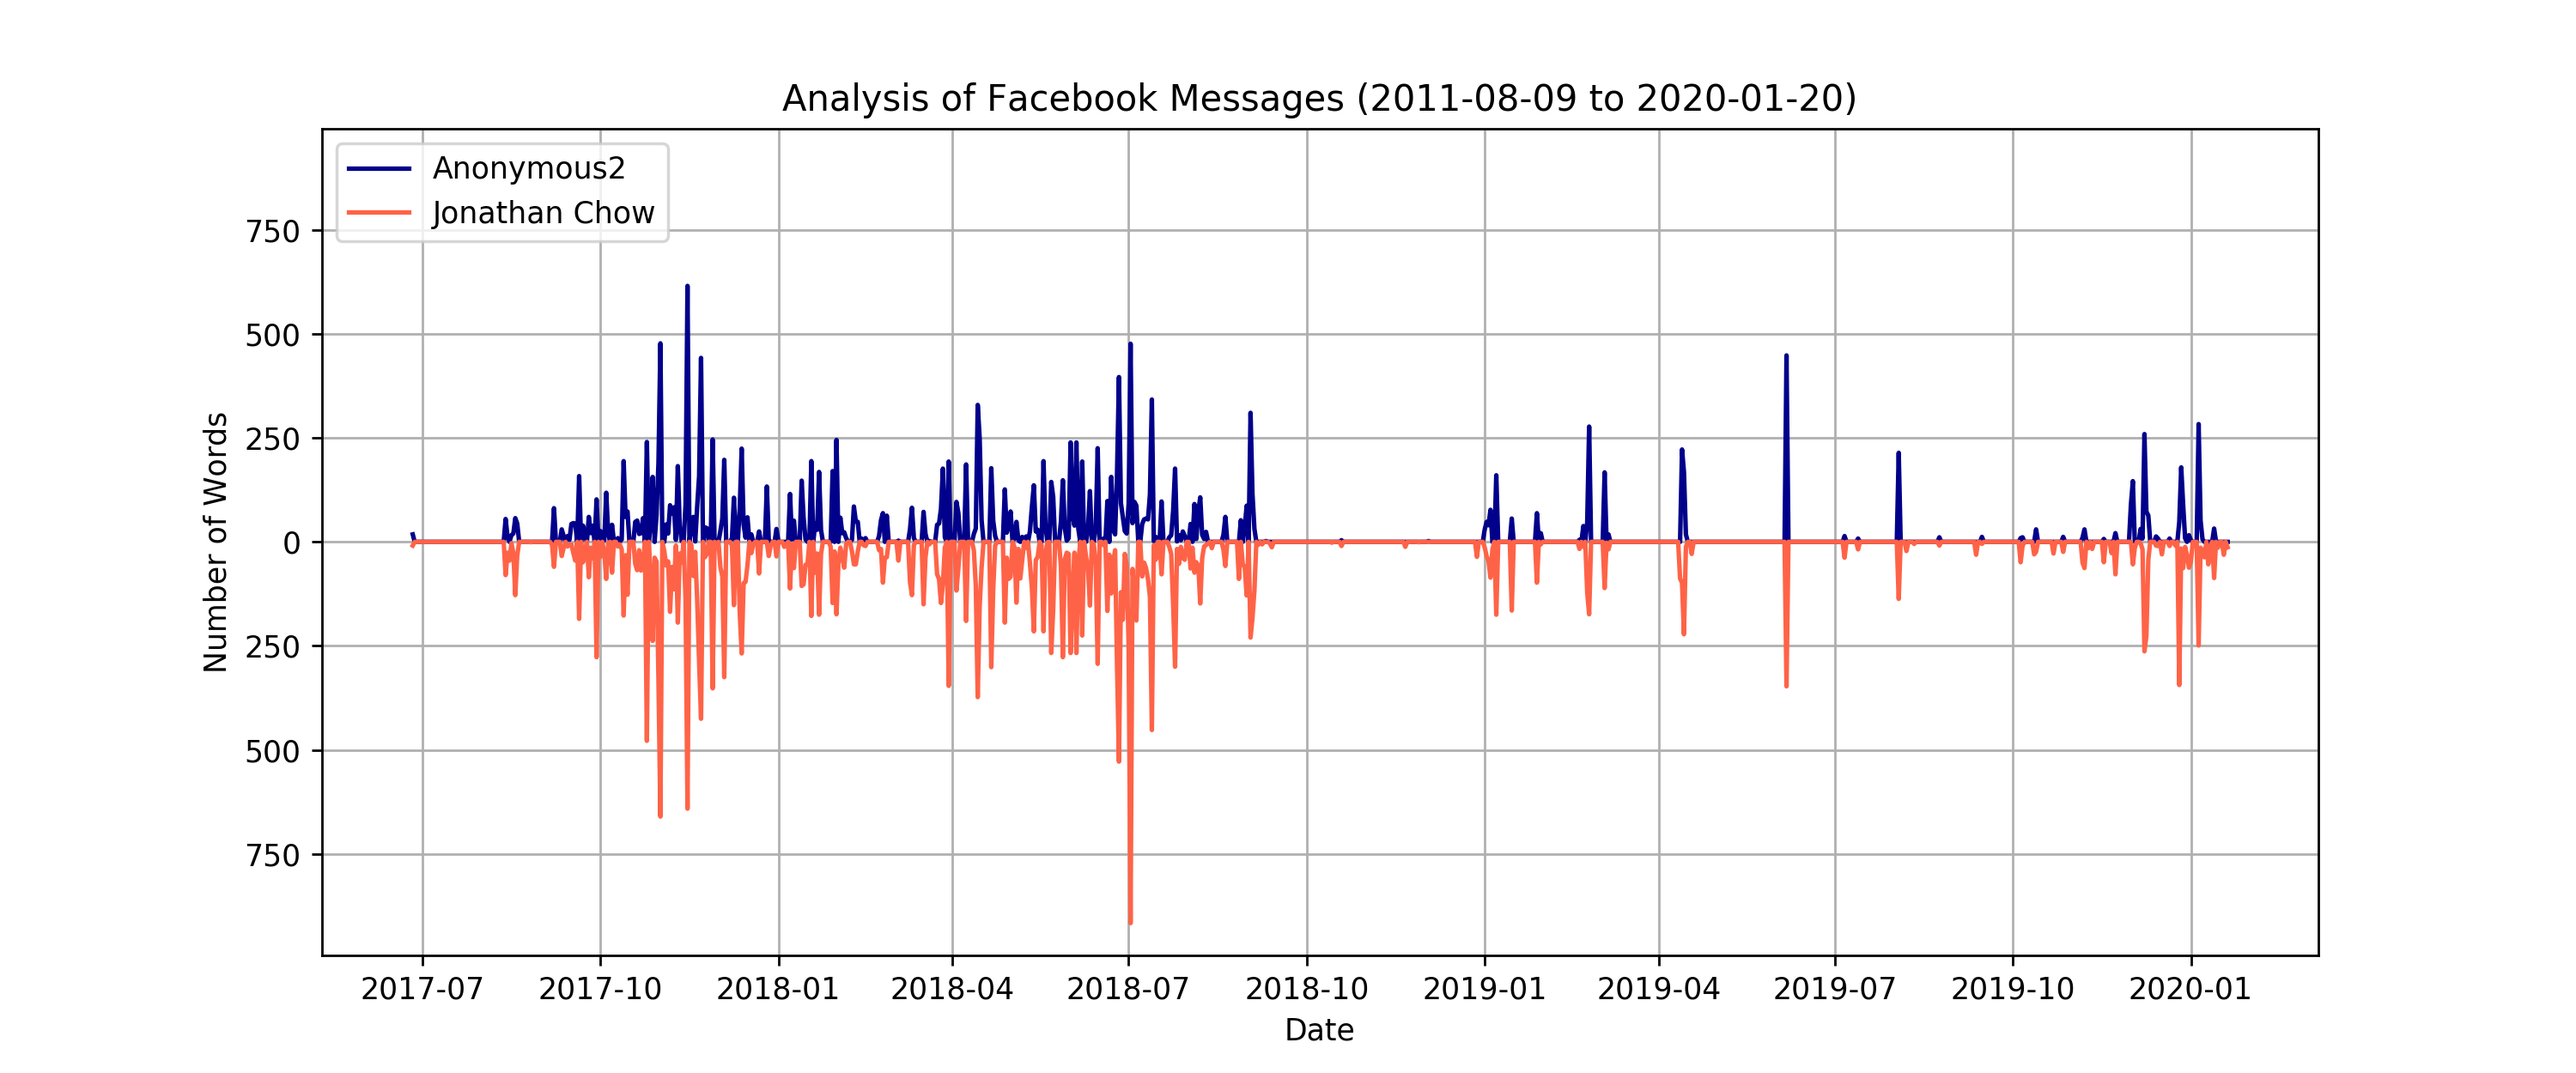
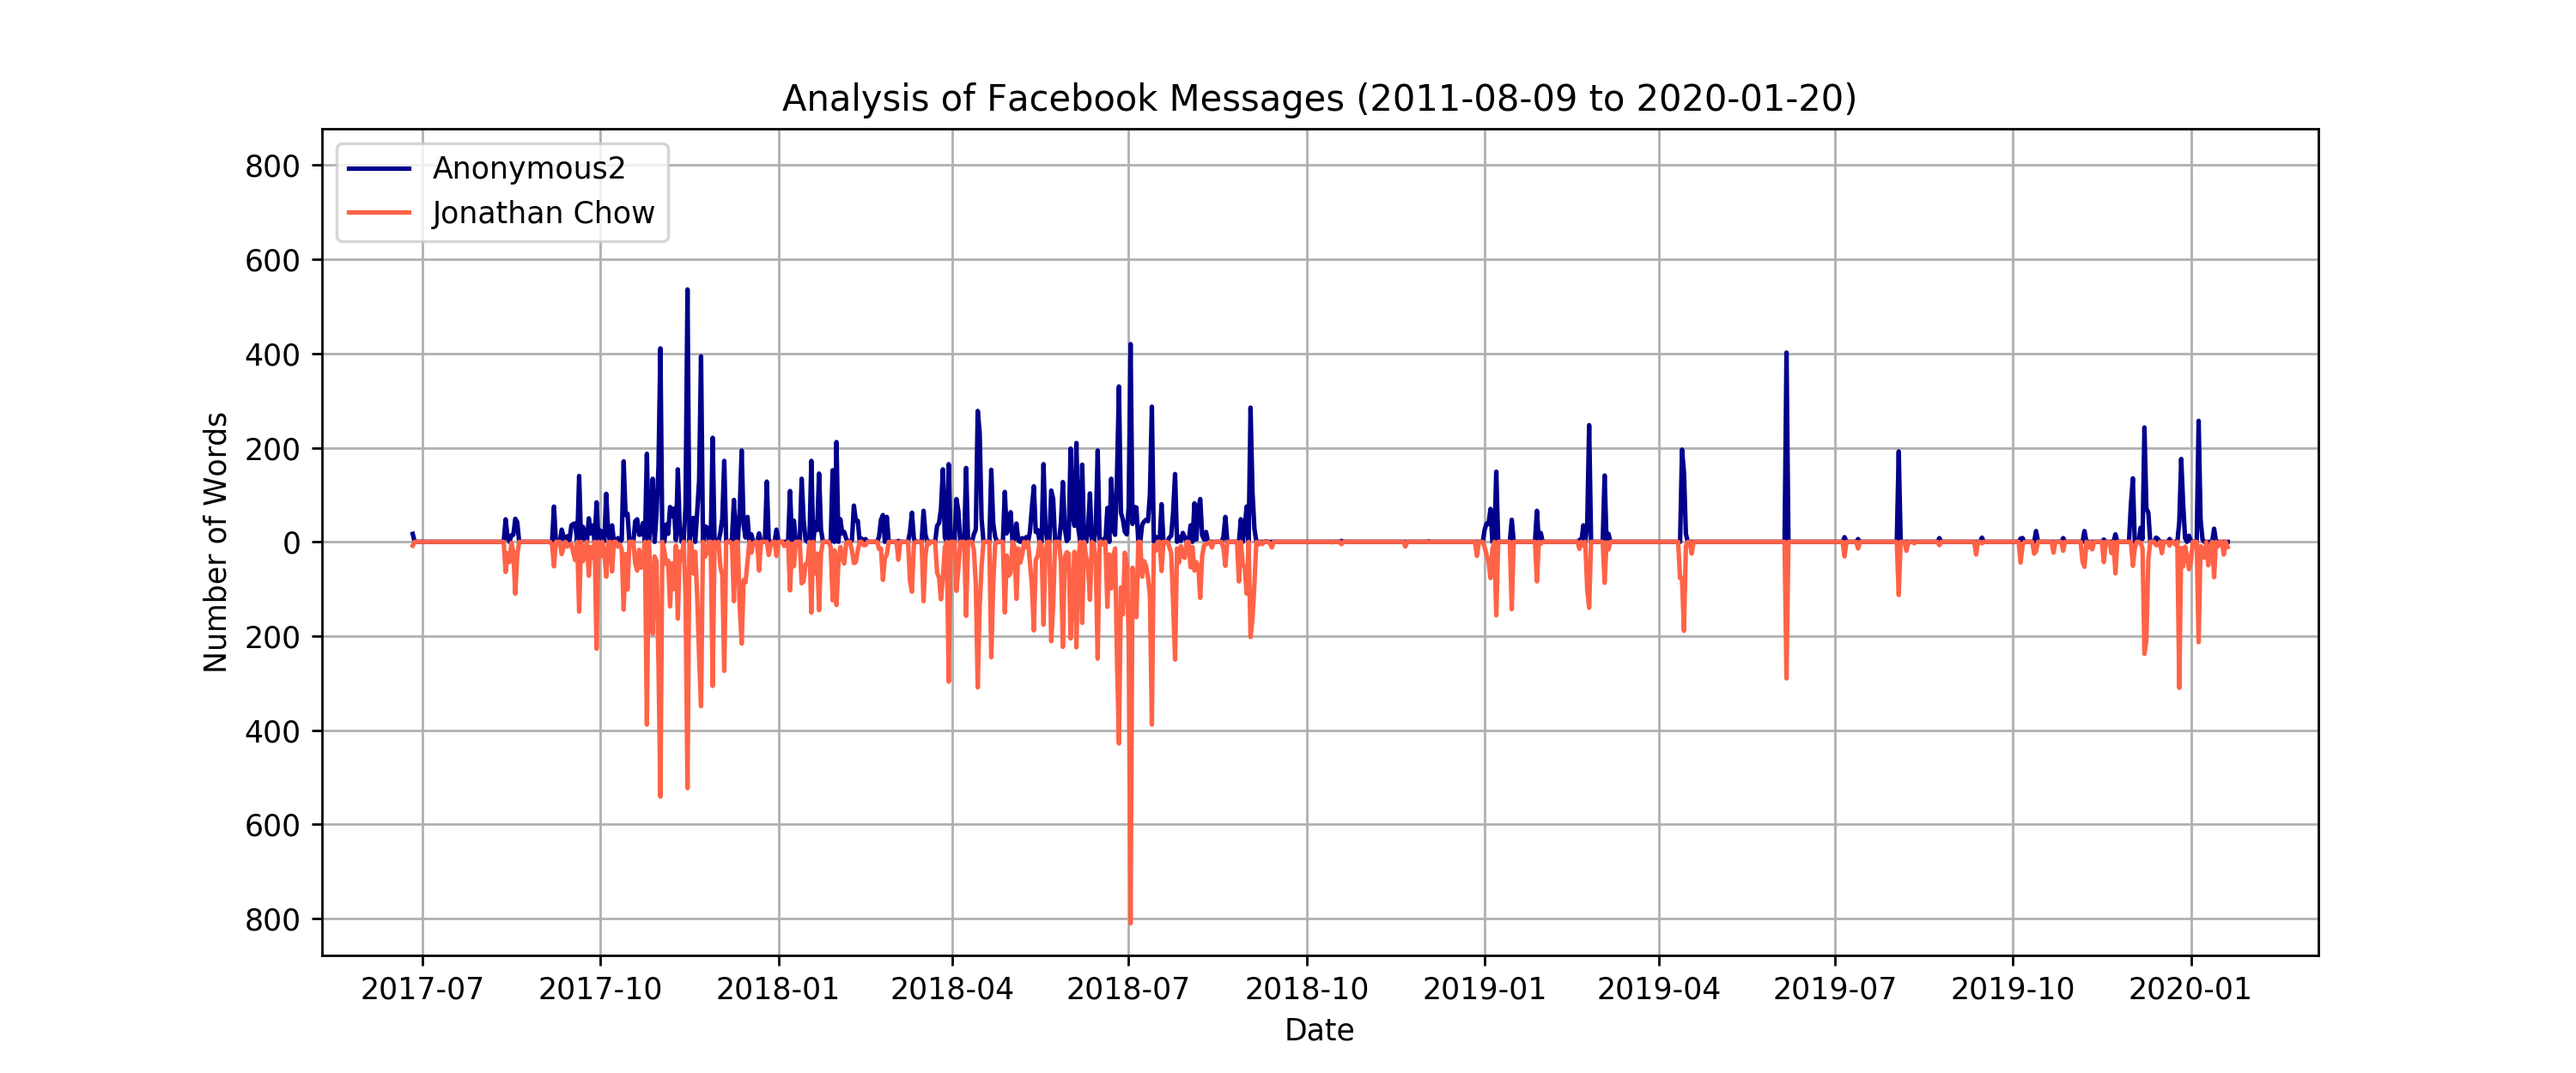
cleaned up graphing and feature functions

diff --git a/Graphing.py b/Graphing.py
@@ -1,5 +1,4 @@
-import pandas as pd
-import random
+import numpy as np
 from matplotlib import pyplot as plt
 
 
@@ -12,38 +11,29 @@ Functions for graphing the conversation features
 '''
 
 
-# Graph data for two participant conversation
-def graphIndividualConvTimeSeries(featureDict, yAxisName, savePath, selfName):
-    graphAssistantDF = pd.DataFrame()
+# Get range of colours from 'darkblue' to 'tomato'
+def list2Colour(listLen):
+    startColour = (1.0, 0.38823529411764707, 0.2784313725490196)
+    endColour = (0.0, 0.0, 0.5450980392156862)
 
-    for participant in featureDict:
-        temp = pd.DataFrame(featureDict[participant], index=[participant]).transpose()
-        graphAssistantDF = pd.concat([graphAssistantDF, temp], sort=True, ignore_index=False, axis=1)
+    rgb = np.array([np.linspace(sc, ec, listLen) for sc, ec in zip(startColour, endColour)])
 
-    # Add zeros for dates when one party sent no messages
-    graphAssistantDF = graphAssistantDF.fillna(0)
+    return [tuple(rgb[:, cIndex]) for cIndex in range(0, listLen)]
 
-    # Add missing dates as zeros for both parties
-    idx = pd.date_range(list(graphAssistantDF.index)[0], list(graphAssistantDF.index)[-1])
-    graphAssistantDF = graphAssistantDF.reindex(idx, fill_value=0)
 
+# Graph two timeseries
+def graphReflectedTimeSeries(featureDF, yAxisName, savePath, selfName):
     # Reflect the feature corresponding to me
-    graphAssistantDF[selfName] = -graphAssistantDF[selfName]
+    featureDF[selfName] = -featureDF[selfName]
 
     plt.figure(figsize=(12, 5), dpi=250)
     plt.xlabel('Date')
     plt.ylabel(yAxisName)
     plt.title('Analysis of Facebook Messages (2011-08-09 to 2020-01-20)')
 
-    # # One style of plotting
-    # plt.scatter(list(graphAssistantDF.index), graphAssistantDF.iloc[:, 0],
-    #             color='darkblue', label=graphAssistantDF.columns[0], marker='.')
-    # plt.scatter(list(graphAssistantDF.index), graphAssistantDF.iloc[:, 1],
-    #             color='tomato', label=graphAssistantDF.columns[1], marker='.')
-
-    plt.plot(list(graphAssistantDF.index), graphAssistantDF.loc[:, graphAssistantDF.columns != selfName],
-             color='darkblue', label=[x for x in graphAssistantDF.columns if x != selfName][0])
-    plt.plot(list(graphAssistantDF.index), graphAssistantDF[selfName],
+    plt.plot(list(featureDF.index), featureDF.loc[:, featureDF.columns != selfName],
+             color='darkblue', label=[x for x in featureDF.columns if x != selfName][0])
+    plt.plot(list(featureDF.index), featureDF[selfName],
              color='tomato', label=selfName)
 
     plt.grid(True)
@@ -62,86 +52,29 @@ def graphIndividualConvTimeSeries(featureDict, yAxisName, savePath, selfName):
     plt.savefig(savePath + yAxisName + '.png')
 
 
-# Graph data for group conversations
-def graphGroupConvTimeSeries(featureDict, yAxisName, savePath):
-    graphAssistantDF = pd.DataFrame()
-
-    for participant in featureDict:
-        temp = pd.DataFrame(featureDict[participant], index=[participant]).transpose()
-        graphAssistantDF = pd.concat([graphAssistantDF, temp], sort=True, ignore_index=False, axis=1)
-
-    # Add zeros for dates when a party sent no messages
-    graphAssistantDF = graphAssistantDF.fillna(0)
-
-    # Add missing dates as zeros for all parties
-    idx = pd.date_range(list(graphAssistantDF.index)[0], list(graphAssistantDF.index)[-1])
-    graphAssistantDF = graphAssistantDF.reindex(idx, fill_value=0)
-
-    plt.figure(figsize=(12, 5), dpi=250)
-    plt.xlabel('Date')
-    plt.ylabel(yAxisName)
-    plt.title('Analysis of Facebook Messages (2011-08-09 to 2020-01-20)')
-
-    for participantIndex in range(0, len(featureDict)):
-        rndColour = (random.random(), random.random(), random.random())
-
-        plt.plot(list(graphAssistantDF.index), graphAssistantDF.iloc[:, participantIndex],
-                 color=rndColour, alpha=0.5, label=graphAssistantDF.columns[participantIndex])
-
-    plt.grid(True)
-
-    handles, labels = plt.gca().get_legend_handles_labels()
-
-    plt.legend(handles, labels, loc='upper left')
-    plt.savefig(savePath + yAxisName + '.png')
-
-
-# Graph data for group conversations
+# Graph single timeseries
 def graphSeries(featureSeries, yAxisName, savePath):
     plt.figure(figsize=(12, 5), dpi=250)
     plt.xlabel('Date')
     plt.ylabel(yAxisName)
     plt.title('Analysis of Facebook Messages (2011-08-09 to 2020-01-20)')
-
     plt.plot(list(featureSeries.index), featureSeries, color='darkblue')
-
     plt.grid(True)
-
     plt.savefig(savePath + yAxisName + '.png')
 
 
-# Graph data for two participant conversation
-def graphIndividualCumMeanTimeSeries(graphAssistantDF, yAxisName, savePath, selfName):
+# Graph n overlapping timeseries
+def graphOverlappingTimeSeries(featureDF, yAxisName, savePath):
     plt.figure(figsize=(12, 5), dpi=250)
     plt.xlabel('Date')
     plt.ylabel(yAxisName)
     plt.title('Analysis of Facebook Messages (2011-08-09 to 2020-01-20)')
 
-    plt.plot(list(graphAssistantDF.index), graphAssistantDF.loc[:, graphAssistantDF.columns != selfName],
-             color='darkblue', label=[x for x in graphAssistantDF.columns if x != selfName][0])
-    plt.plot(list(graphAssistantDF.index), graphAssistantDF[selfName],
-             color='tomato', label=selfName)
+    colourList = list2Colour(len(featureDF.columns))
 
-    plt.grid(True)
-
-    handles, labels = plt.gca().get_legend_handles_labels()
-
-    plt.legend(handles, labels, loc='upper left')
-    plt.savefig(savePath + yAxisName + '.png')
-
-
-# Graph data for group conversations
-def graphGroupCumMeanTimeSeries(graphAssistantDF, yAxisName, savePath):
-    plt.figure(figsize=(12, 5), dpi=250)
-    plt.xlabel('Date')
-    plt.ylabel(yAxisName)
-    plt.title('Analysis of Facebook Messages (2011-08-09 to 2020-01-20)')
-
-    for participantIndex in range(0, len(graphAssistantDF.columns)):
-        rndColour = (random.random(), random.random(), random.random())
-
-        plt.plot(list(graphAssistantDF.index), graphAssistantDF.iloc[:, participantIndex],
-                 color=rndColour, alpha=0.5, label=graphAssistantDF.columns[participantIndex])
+    for participantIndex in range(0, len(featureDF.columns)):
+        plt.plot(list(featureDF.index), featureDF.iloc[:, participantIndex],
+                 color=colourList[participantIndex], label=featureDF.columns[participantIndex])
 
     plt.grid(True)
 

diff --git a/FeatureExtraction.py b/FeatureExtraction.py
@@ -1,4 +1,5 @@
 import datetime
+import pandas as pd
 from Graphing import *
 
 
@@ -18,6 +19,16 @@ def ms2dt(milliseconds):
     return datetime.datetime.fromtimestamp(s)
 
 
+def featureDict2DF(featureDict):
+    featureDF = pd.DataFrame()
+
+    for participant in featureDict:
+        temp = pd.DataFrame(featureDict[participant], index=[participant]).transpose()
+        featureDF = pd.concat([featureDF, temp], sort=True, ignore_index=False, axis=1)
+
+    return featureDF
+
+
 # Construct timeseries of the number of messages sent per day for each participant
 def messagesPerDay(conversationList, featureDict, outputPath, self, indOrGroup):
     for conversation in conversationList:
@@ -27,10 +38,19 @@ def messagesPerDay(conversationList, featureDict, outputPath, self, indOrGroup):
             except KeyError:
                 featureDict[message['sender_name']][ms2dt(message['timestamp_ms']).date()] = 1
 
+    featureDF = featureDict2DF(featureDict)
+
+    # Add zeros for dates when a party sent no messages
+    featureDF = featureDF.fillna(0)
+
+    # Add missing dates as zeros for all parties
+    idx = pd.date_range(list(featureDF.index)[0], list(featureDF.index)[-1])
+    featureDF = featureDF.reindex(idx, fill_value=0)
+
     if indOrGroup == 'Individual':
-        graphIndividualConvTimeSeries(featureDict, 'Number of Messages', outputPath, self)
+        graphReflectedTimeSeries(featureDF, 'Number of Messages', outputPath, self)
     else:
-        graphGroupConvTimeSeries(featureDict, 'Number of Messages', outputPath)
+        graphOverlappingTimeSeries(featureDF, 'Number of Messages', outputPath)
 
 
 # Make timeseries of the number of words sent per day for each participant
@@ -43,10 +63,19 @@ def wordsPerDay(conversationList, featureDict, outputPath, self, indOrGroup):
                 except KeyError:
                     featureDict[message['sender_name']][ms2dt(message['timestamp_ms']).date()] = len(message['content'].split(' '))
 
+    featureDF = featureDict2DF(featureDict)
+
+    # Add zeros for dates when a party sent no messages
+    featureDF = featureDF.fillna(0)
+
+    # Add missing dates as zeros for all parties
+    idx = pd.date_range(list(featureDF.index)[0], list(featureDF.index)[-1])
+    featureDF = featureDF.reindex(idx, fill_value=0)
+
     if indOrGroup == 'Individual':
-        graphIndividualConvTimeSeries(featureDict, 'Number of Words', outputPath, self)
+        graphReflectedTimeSeries(featureDF, 'Number of Words', outputPath, self)
     else:
-        graphGroupConvTimeSeries(featureDict, 'Number of Words', outputPath)
+        graphOverlappingTimeSeries(featureDF, 'Number of Words', outputPath)
 
 
 # Make timeseries of the cumulative word difference between me and average words sent by other participants
@@ -56,11 +85,7 @@ def cumWordDiff(conversationList, featureDict, outputPath, self):
             if 'content' in message:
                 featureDict[message['sender_name']][ms2dt(message['timestamp_ms'])] = len(message['content'].split(' '))
 
-    featureDF = pd.DataFrame()
-
-    for participant in featureDict:
-        temp = pd.DataFrame(featureDict[participant], index=[participant]).transpose()
-        featureDF = pd.concat([featureDF, temp], sort=True, ignore_index=False, axis=1)
+    featureDF = featureDict2DF(featureDict)
 
     # Add zeros for dates when one party sent no messages
     featureDF = featureDF.fillna(0)
@@ -77,11 +102,7 @@ def cumMessageDiff(conversationList, featureDict, outputPath, self):
         for message in conversation['messages']:
             featureDict[message['sender_name']][ms2dt(message['timestamp_ms'])] = 1
 
-    featureDF = pd.DataFrame()
-
-    for participant in featureDict:
-        temp = pd.DataFrame(featureDict[participant], index=[participant]).transpose()
-        featureDF = pd.concat([featureDF, temp], sort=True, ignore_index=False, axis=1)
+    featureDF = featureDict2DF(featureDict)
 
     # Add zeros for dates when one party sent no messages
     featureDF = featureDF.fillna(0)
@@ -99,16 +120,9 @@ def avgWordsPerMessage(conversationList, featureDict, outputPath, self, indOrGro
             if 'content' in message:
                 featureDict[message['sender_name']][ms2dt(message['timestamp_ms'])] = len(message['content'].split(' '))
 
-    featureDF = pd.DataFrame()
-
-    for participant in featureDict:
-        temp = pd.DataFrame(featureDict[participant], index=[participant]).transpose()
-        featureDF = pd.concat([featureDF, temp], sort=True, ignore_index=False, axis=1)
+    featureDF = featureDict2DF(featureDict)
 
     # Get the running average of words per message
     featureDF = featureDF.expanding().mean()
 
-    if indOrGroup == 'Individual':
-        graphIndividualCumMeanTimeSeries(featureDF, 'Running Average of Words Per Message', outputPath, self)
-    else:
-        graphGroupCumMeanTimeSeries(featureDF, 'Running Average of Words Per Message', outputPath)
+    graphOverlappingTimeSeries(featureDF, 'Running Average of Words Per Message', outputPath)
